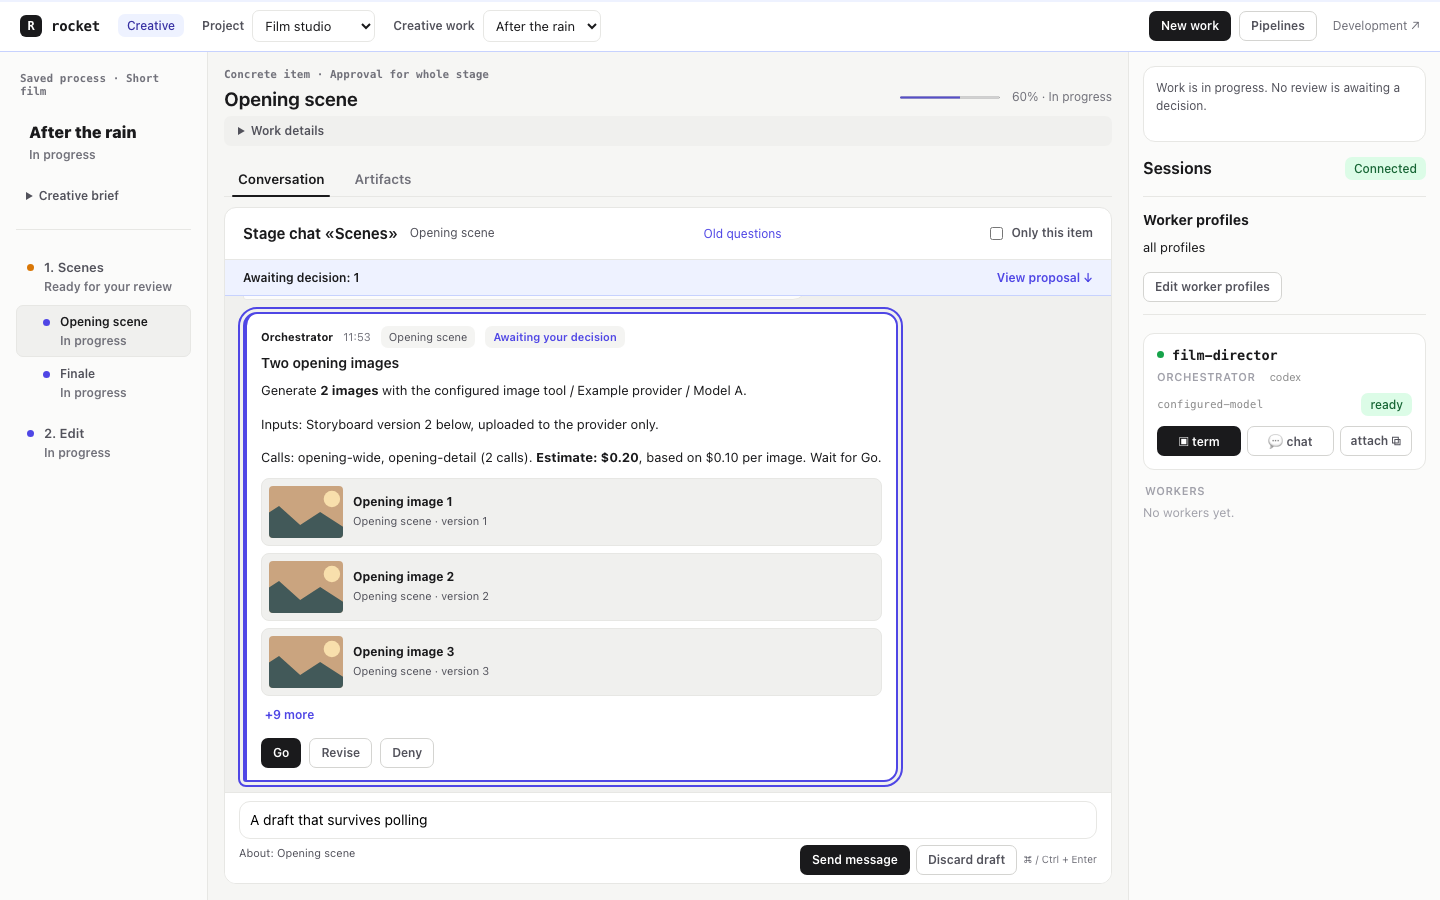
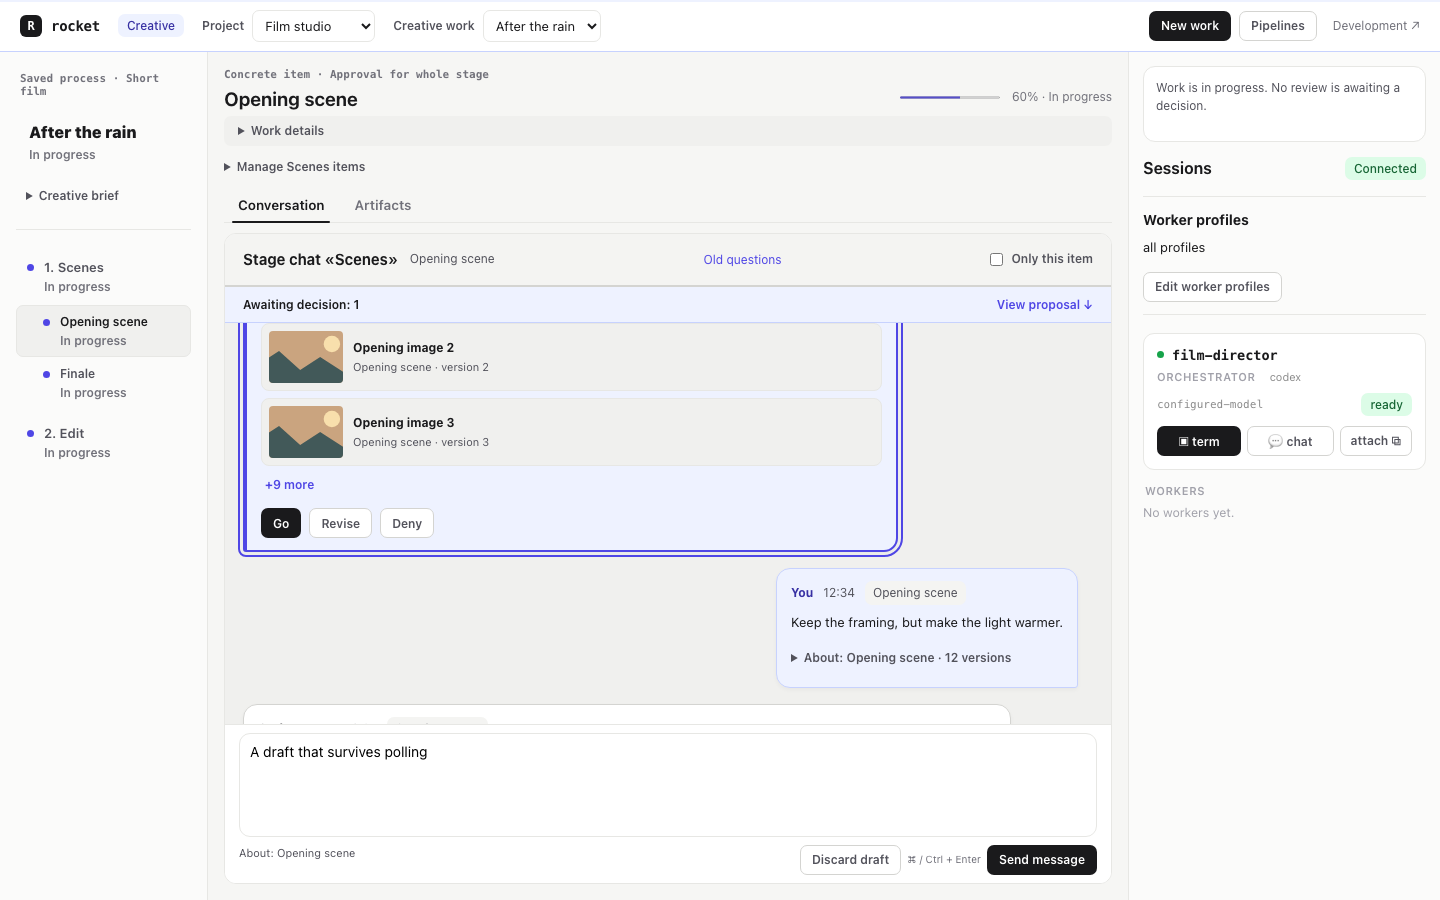
fix(creative-messages): restore tall composer and clarify chat surfaces (#216)
* fix(creative): restore roomy composer and separate chat messages

* test(creative): verify chat polish across desktop and narrow layouts

* fix(creative): omit empty message version disclosures

diff --git a/creative-web/src/style.css b/creative-web/src/style.css
@@ -696,13 +696,14 @@ details p {
 .chat-archive .question-archive { margin: 8px 0 0; border: 0; padding: 0; }
 .chat-archive-toggle { border: 0; background: none; color: var(--accent); font: 12px var(--font-ui); cursor: pointer; padding: 4px 0; }
 .chat-heading .chat-archive-toggle { margin-left: auto; }
-.composer-actions { margin-top: 6px; gap: 6px; }
+.composer-actions { margin-top: 8px; gap: 6px; justify-content: flex-end; }
+.composer-actions > button, .composer-actions > small { flex-shrink: 0; }
 .composer-context { flex: 1; min-width: 100px; margin: 0; font-size: 11px; color: var(--text-2); overflow-wrap: anywhere; }
 .feed-entry .markdown, .feed-entry .markdown pre, .feed-entry .markdown code { overflow-wrap: anywhere; word-break: break-word; }
 .feed-entry .markdown pre code { white-space: pre-wrap; }
 .feed-entry .markdown pre { white-space: pre-wrap; overflow-x: hidden; max-width: 100%; }
 .chat-window { flex: 1; display: flex; flex-direction: column; min-height: 0; }
-.chat-heading { padding: 14px 18px; border-bottom: 1px solid var(--border); display: flex; align-items: center; flex-wrap: wrap; gap: 6px 12px; flex-shrink: 0; }
+.chat-heading { padding: 14px 18px; background: var(--surface-3); border-bottom: 2px solid var(--border-hover); display: flex; align-items: center; flex-wrap: wrap; gap: 6px 12px; flex-shrink: 0; }
 .creative-app .chat-heading h2 { font-size: 15px; margin: 0; }
 .chat-heading > span { color: var(--text-2); font-size: 12px; }
 .chat-heading .feed-filter { margin: 0 0 0 auto; }
@@ -710,14 +711,17 @@ details p {
 .chat-pending span { color: var(--accent); }
 .chat-history-wrap { position: relative; flex: 1; min-height: 0; }
 .chat-history { height: 100%; overflow-y: auto; overflow-x: hidden; overscroll-behavior: contain; overflow-anchor: none; scrollbar-gutter: stable; padding: 0 18px; background: var(--surface-2); }
-.conversation-entries { display: flex; flex-direction: column; gap: 12px; margin: 0; padding: 12px 0 20px; }
+.conversation-entries { display: flex; flex-direction: column; gap: 16px; margin: 0; padding: 16px 0 20px; }
 .conversation-entries > li { min-width: 0; }
 .chat-date { text-align: center; color: var(--text-3); font-size: 11px; margin: 6px 0 16px; }
-.feed-entry { max-width: 92%; width: fit-content; padding: 12px 14px; border-radius: 14px 14px 14px 3px; background: var(--surface); }
+.feed-entry { max-width: 92%; width: fit-content; padding: 12px 14px; border-radius: 14px 14px 14px 3px; background: var(--surface); border-color: var(--border-hover); box-shadow: 0 2px 4px #0000000a; }
 .feed-entry--human { margin-left: auto; border-radius: 14px 14px 3px 14px; background: var(--accent-selected-bg); border-color: var(--accent-selected-border); }
-.feed-entry--pending { border: 2px solid var(--accent); border-left-width: 4px; }
+.feed-entry--pending { border: 2px solid var(--accent); border-left-width: 4px; background: var(--accent-selected-bg); }
+.feed-entry--decided, .feed-entry--replaced { border-left: 4px solid var(--accent-selected-border); }
 .feed-entry--replaced { opacity: .8; }
-.feed-entry__meta { margin-bottom: 6px; gap: 5px 10px; font-size: 11px; }
+.feed-entry__meta { margin-bottom: 8px; gap: 5px 10px; font-size: 12px; color: var(--text-2); }
+.feed-entry__meta strong { font-weight: 700; }
+.feed-entry--human .feed-entry__meta strong { color: var(--accent-text); }
 .feed-entry .markdown > :last-child { margin-bottom: 0; }
 .feed-entry .markdown { font-size: 13px; }
 .feed-entry__actions { margin-top: 12px; }
@@ -727,7 +731,7 @@ details p {
 .chat-context summary { cursor: pointer; overflow-wrap: anywhere; }
 .composer .chat-context { margin: 0; max-height: 96px; overflow: auto; }
 
-.discussion .composer textarea { display: block; min-height: 38px; max-height: 104px; padding: 7px 10px; margin: 0; line-height: 22px; resize: none; }
+.discussion .composer textarea { display: block; min-height: 104px; max-height: 192px; padding: 7px 10px; margin: 0; line-height: 22px; resize: none; }
 .composer small { color: var(--text-3); font-size: 10px; }
 .chat-attachments { display: grid; gap: 7px; margin-top: 10px; min-width: 0; }
 .chat-attachment__card { display: flex; align-items: center; gap: 10px; border: 1px solid var(--border); border-radius: 8px; padding: 7px; background: var(--surface-2); text-decoration: none; color: var(--text); }
@@ -765,7 +769,7 @@ details p {
   .chat-heading { padding: 12px; }
   .chat-history { padding: 0 10px; }
   .discussion .composer { padding: 10px 12px; }
-  .composer small { display: none; }
+  .composer-context { flex-basis: 100%; }
   .feed-entry { max-width: 96%; }
   .creative-app .topbar { flex-wrap: wrap; height: auto; }
   .chat-pending span { display: none; }

diff --git a/creative-web/src/Discussion.tsx b/creative-web/src/Discussion.tsx
@@ -43,7 +43,7 @@ export function Discussion({ context, ready, items = [], onNavigate, active = tr
     const input = inputRef.current;
     if (!input) return;
     input.style.height = "auto";
-    input.style.height = `${Math.min(input.scrollHeight, 104)}px`;
+    input.style.height = `${Math.min(input.scrollHeight, 192)}px`;
   }, [body, active, archiveOpen]);
   const [jump, setJump] = useState<FeedEntry>();
   const windowRef = useRef<HTMLDivElement>(null);
@@ -115,7 +115,7 @@ export function Discussion({ context, ready, items = [], onNavigate, active = tr
             await cacheFeedEntry(client, entry);
           }, { onSuccess: reset });
         }}>
-          <textarea className="chat-input" aria-label="Message" ref={inputRef} rows={1} value={body} onChange={(e) => {
+          <textarea className="chat-input" aria-label="Message" ref={inputRef} rows={4} value={body} onChange={(e) => {
             if (!draftContext) setDraftContext({ ...context, artifact_version_ids: [...context.artifact_version_ids] });
             setBody(e.target.value);
           }} onKeyDown={(e) => {
@@ -125,9 +125,9 @@ export function Discussion({ context, ready, items = [], onNavigate, active = tr
           }} placeholder="Write to the orchestrator…" disabled={command.isPending || (!ready && !draftContext)} />
           <div className="row composer-actions">
             <p className="composer-context">{changed ? `Draft stays with ${targetLabel}` : `About: ${targetLabel}`}</p>
-            <Button variant="primary" size="sm" type="submit" disabled={!body.trim() || command.isPending || (!ready && !draftContext)}>Send message</Button>
             {body && <Button variant="secondary" size="sm" type="button" onClick={reset} disabled={command.isPending}>Discard draft</Button>}
             <small>⌘ / Ctrl + Enter</small>
+            <Button variant="primary" size="sm" type="submit" disabled={!body.trim() || command.isPending || (!ready && !draftContext)}>Send message</Button>
           </div>
           <ErrorNotice error={command.error} />
         </form>

diff --git a/creative-web/src/Conversation.test.tsx b/creative-web/src/Conversation.test.tsx
@@ -51,6 +51,15 @@ it("puts chronological bubbles above the bottom composer and collapses human con
   await userEvent.click(within(cards[2]).getByText(/About: Opening scene/));
   expect(await screen.findByRole("link", { name: "Storyboard · version 2" })).toHaveAttribute("href", "/content/101");
 });
+it("omits the versions disclosure on human messages without attached versions", async () => {
+  server.use(http.get("/v1/creative/runs/7/feed", () => HttpResponse.json([entry(6, 5, "human")])));
+  open(4);
+  const message = await screen.findByRole("article", { name: "Message 6" });
+  expect(within(message).getByText("Opening scene")).toBeVisible();
+  expect(within(message).getByText("Message 6")).toBeVisible();
+  expect(within(message).queryByText(/About:|versions/)).not.toBeInTheDocument();
+  expect(message.querySelector("details")).not.toBeInTheDocument();
+});
 it("reads a run feed, a whole stage for an item, then the explicit item filter; archive keeps exact item scope", async () => {
   const reads: string[] = [], archives: string[] = [], writes: unknown[] = [];
   server.use(
@@ -97,9 +106,15 @@ it("opens old questions from the chat header and returns to the retained chat dr
   ])));
   open(4);
   const box = screen.getByLabelText("Message");
-  expect(box).toHaveAttribute("rows", "1");
+  expect(box).toHaveAttribute("rows", "4");
   expect(screen.queryByText("Message", { selector: "label" })).not.toBeInTheDocument();
+  const send = screen.getByRole("button", { name: "Send message" });
+  const actions = send.parentElement!;
+  expect(actions.lastElementChild).toBe(send);
+  expect(send.previousElementSibling).toHaveTextContent("⌘ / Ctrl + Enter");
   await userEvent.type(box, "Keep this chat draft");
+  expect(actions.lastElementChild).toBe(send);
+  expect(send.previousElementSibling).toHaveTextContent("⌘ / Ctrl + Enter");
   const toggle = screen.getByRole("button", { name: "Old questions" });
   expect(toggle.closest("header")).toBeInTheDocument();
   expect(screen.getByRole("region", { name: "Chat history" })).toBeVisible();

diff --git a/creative-web/src/ChatContext.tsx b/creative-web/src/ChatContext.tsx
@@ -4,8 +4,9 @@ import { BoundVersions } from "./BoundVersions";
 // Keep the automatically bound version set out of the reading flow.
 export function ChatContext({ label, ids, changed = false }: { label: string; ids: number[]; changed?: boolean }) {
   const [open, setOpen] = useState(false);
+  if (!ids.length) return null;
   return <details className="chat-context" onToggle={event => setOpen(event.currentTarget.open)}>
     <summary>{changed ? `Draft stays with ${label}` : `About: ${label}`} · {ids.length} versions</summary>
-    {open && !!ids.length && <BoundVersions ids={ids} />}
+    {open && <BoundVersions ids={ids} />}
   </details>;
 }

diff --git a/docs/superpowers/plans/2026-11-11-creative-chat-polish.md b/docs/superpowers/plans/2026-11-11-creative-chat-polish.md
@@ -1,0 +1,43 @@
+# Creative chat polish implementation plan
+
+> **For agentic workers:** Use superpowers:executing-plans to implement this plan task-by-task.
+
+**Goal:** Make long Conversation feeds readable and restore a spacious composer.
+**Architecture:** Change only Conversation presentation and its visual acceptance fixture. Retain feed, draft, keyboard, and proposal logic.
+**Tech Stack:** React, CSS tokens, Vitest, Playwright.
+**Spec:** Task 6061 spec v9 brief supplied by creative-messages-orch (subtask 6072).
+
+## Global constraints
+
+Only creative-web Conversation styling/markup; no behavior/API changes. Light theme only. No visible Message label. About left; keyboard hint then Send rightmost. Four default rows with bounded growth. Header, adjacent messages, human/orchestrator colours, proposal and pending states distinct.
+
+## Review focus
+
+- Draft present: discard must not displace Send from the right edge.
+- Narrow layout: context may wrap without pushing Send offscreen.
+- Long draft: growth stops while history remains scrollable.
+- Consecutive same-author messages: borders, shadows, spacing and metadata separate them.
+- Proposal status: pending and historical cards remain distinct from messages.
+
+### Task 1: Restore composer and separate conversation surfaces
+
+**Files:** Discussion.tsx, style.css, Conversation.test.tsx under creative-web/src; creative-web/browser/chat-window-check.mjs; docs/screenshots/creative-feed/.
+**Interfaces:** Existing Discussion props and HTTP contracts unchanged.
+
+- [x] Update existing row assertion and assert hint precedes Send even with a draft; run focused tests RED.
+- [x] Restore four rows/104px minimum and 192px maximum; move Send last. Tint header, strengthen metadata and bubble borders/shadows, preserve proposal distinction.
+- [x] Extend browser fixture to 8+ mixed messages and assert geometry, colours, spacing and bounded growth at desktop/narrow widths.
+- [x] Run focused tests, capture and inspect 1440x900 and narrow screenshots.
+- [x] Run make test and make creative-web-build; review diff; commit and open PR to main.
+
+## Verification record
+
+- RED: Conversation regression expected rows=4, received rows=1.
+- GREEN: focused Conversation tests 9/9; make test passed (Go packages, web 722 tests, creative-web 91 tests).
+- make creative-web-build passed. Generated dist placeholder restored per repo convention.
+- Playwright checks passed in desktop/narrow, both OS schemes and host attributes; 20-line draft capped with internal scrolling. Desktop, narrow and pending screenshots visually inspected.
+- First make test run hit an unrelated three-second hook subprocess timeout; isolated test and full rerun passed.
+
+## Review follow-up: empty version context
+
+The orchestrator requested no versions disclosure when a human message has no attachments. ChatContext returns null for an empty ID list, preserving the item tag and existing attached-version disclosure. A regression failed on the previous zero-version summary before the fix. Updated desktop/narrow captures and browser assertion verify the empty disclosure is absent.

diff --git a/docs/screenshots/creative-feed/README.md b/docs/screenshots/creative-feed/README.md
@@ -27,3 +27,11 @@ The browser check emulates both dark and light OS color schemes, with unset, dar
 The browser check also verifies that polling preserves the draft and the scroll position, a height change above the visible message preserves its screen position, clicking the pill follows the latest, incoming messages follow the bottom, pending navigation works, the composer fits the viewport, and Ctrl+Enter keeps the original stage/item target and sends no automatic version references. Historical messages still carry twelve references in this fixture.
 
 To reproduce, serve this worktree with `npm run dev --prefix creative-web -- --host 127.0.0.1 --port 5177`, import `captureChatWindow` from `creative-web/browser/chat-window-check.mjs` into a Playwright runner, and call `captureChatWindow(page, "after")`. Call `captureChatWindow(page, "after", { reviewing: true })` as well to capture the pending-review layout. The before set was captured before the messenger implementation.
+
+## Composer and message polish (task 6072, spec v9)
+
+[Desktop, 1440×900](polish-stage-light.png) and [narrow, 390×844](polish-stage-light-narrow.png) show the tinted, bordered header, contrasting message pane, white orchestrator and indigo human bubbles, stronger metadata, and a decided proposal with its own accent edge. The stage fixture contains nine mixed entries, including pending and replaced proposals. [Pending proposal](after-pending-proposal.png) shows the accent border and decision actions.
+
+The composer starts at four rows (104px), grows to 192px, then scrolls internally. About stays left; the keyboard hint precedes the rightmost Send button, including while Discard draft is present. On narrow screens the context wraps above the actions. The browser check asserts message spacing, distinct surfaces, composer geometry, the long-draft cap, and the existing draft/scroll/keyboard behavior in the light dashboard under both OS color schemes. Run the same captureChatWindow(page, "after") workflow above to reproduce the polish captures.
+
+Human messages without attached versions omit the context disclosure entirely. The polish captures show those compact messages; messages with attachments retain their collapsible version references.
